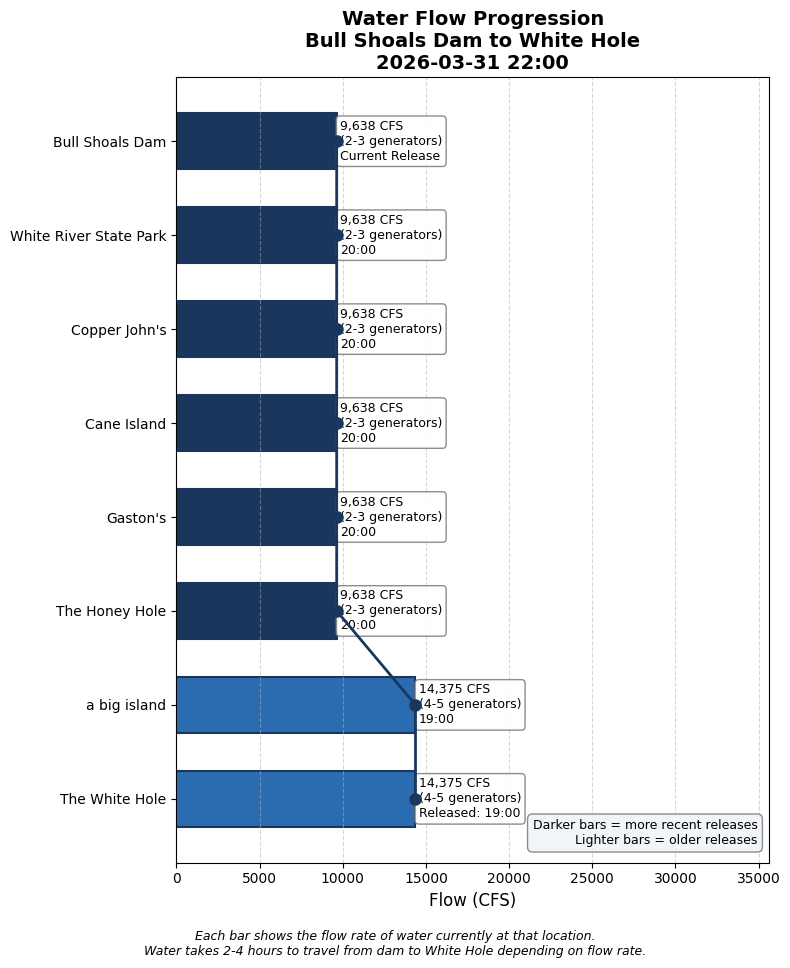
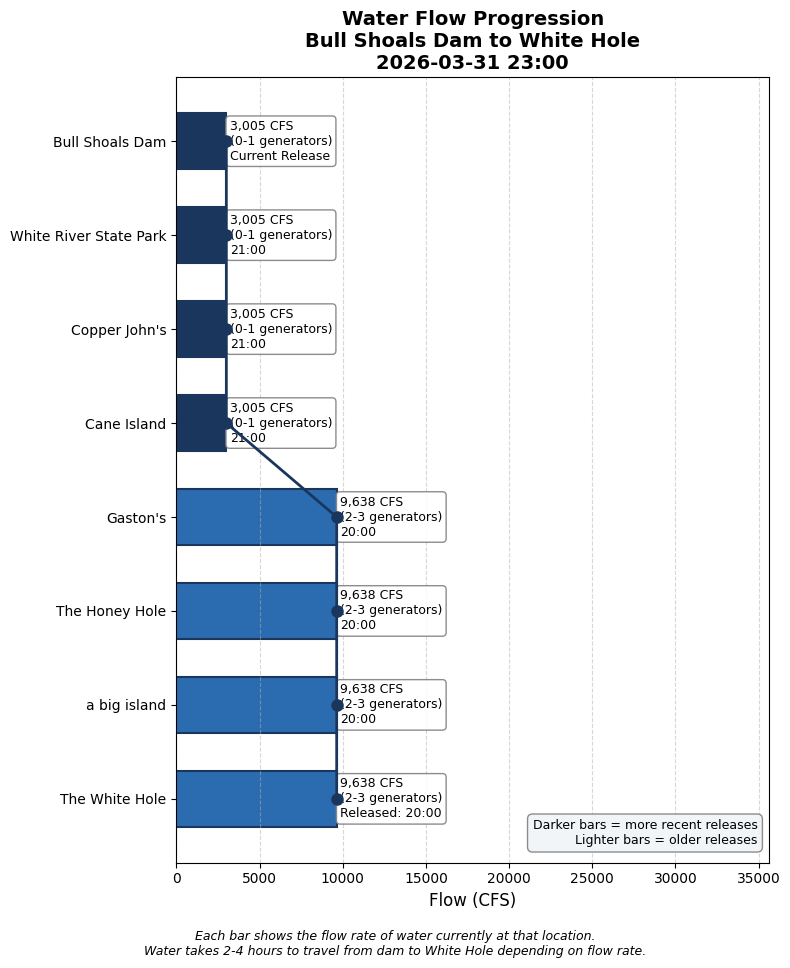
Update water conditions 2026-03-31 23:00

Changed region(s): [[0.2127, 0.093, 0.6684, 0.8678]]

diff --git a/white_hole_conditions.html b/white_hole_conditions.html
@@ -3,7 +3,7 @@
 <head>
     <meta charset="UTF-8">
     <meta name="viewport" content="width=device-width, initial-scale=1.0">
-    <title>White Hole Conditions - 2026-03-31 22:00</title>
+    <title>White Hole Conditions - 2026-03-31 23:00</title>
     <style>
         body {
             font-family: -apple-system, BlinkMacSystemFont, 'Segoe UI', Roboto, sans-serif;
@@ -77,8 +77,8 @@
             color: #991b1b;
         }
         .pill.boating {
-            background-color: #fee2e2;
-            color: #991b1b;
+            background-color: #dbeafe;
+            color: #1e40af;
         }
         .timeline-box {
             background-color: white;
@@ -148,7 +148,7 @@
 </head>
 <body>
     <h1>White Hole Current Conditions</h1>
-    <p class="subtitle">Tuesday, March 31, 2026 at 10:00 PM</p>
+    <p class="subtitle">Tuesday, March 31, 2026 at 11:00 PM</p>
 
     <!-- HEADLINE BANNER -->
     <div class="headline-banner">
@@ -159,11 +159,11 @@
     <!-- CURRENT CONDITIONS -->
     <div class="current-conditions">
         <h3>Current Conditions at White Hole</h3>
-        <div class="flow-display">14,375 CFS</div>
-        <div class="generator-display">Equivalent to 4-5 generators</div>
+        <div class="flow-display">9,638 CFS</div>
+        <div class="generator-display">Equivalent to 2-3 generators</div>
         <div class="condition-pills">
             <span class="pill wading">No Wading</span>
-            <span class="pill boating">High Water</span>
+            <span class="pill boating">Ideal Boating</span>
         </div>
         <a href="https://www.youtube.com/channel/UCAXhb9nFnsfu367AthDrgIA/live" target="_blank" class="webcam-link" style="margin-top: 15px;">
             📹 View Live Webcam
@@ -186,20 +186,20 @@
                 <tbody>
                     
                 <tr style="background-color: #ebf8ff;">
-                    <td style="padding: 10px; font-weight: bold;">20:00</td>
-                    <td style="padding: 10px;">9,638 CFS<br><small style="color: #666;">(2-3 generators)</small></td>
-                    <td style="padding: 10px;"><span style="color: #2b6cb0;">→ Arrives ~22:41 (in 41 min)</span></td>
+                    <td style="padding: 10px; font-weight: bold;">21:00</td>
+                    <td style="padding: 10px;">3,005 CFS<br><small style="color: #666;">(0-1 generators)</small></td>
+                    <td style="padding: 10px;"><span style="color: #2b6cb0;">→ Arrives ~00:44 (in 103 min)</span></td>
                 </tr>
             
                 <tr style="background-color: #e6fffa;">
-                    <td style="padding: 10px; font-weight: bold;">19:00</td>
-                    <td style="padding: 10px;">14,375 CFS<br><small style="color: #666;">(4-5 generators)</small></td>
+                    <td style="padding: 10px; font-weight: bold;">20:00</td>
+                    <td style="padding: 10px;">9,638 CFS<br><small style="color: #666;">(2-3 generators)</small></td>
                     <td style="padding: 10px;"><span style="color: #319795; font-weight: bold;">← AT WHITE HOLE NOW</span></td>
                 </tr>
             
                 <tr style="">
-                    <td style="padding: 10px; font-weight: bold;">15:00</td>
-                    <td style="padding: 10px;">5,295 CFS<br><small style="color: #666;">(1-2 generators)</small></td>
+                    <td style="padding: 10px; font-weight: bold;">16:00</td>
+                    <td style="padding: 10px;">8,484 CFS<br><small style="color: #666;">(2-3 generators)</small></td>
                     <td style="padding: 10px;"><span style="color: #718096;">passed</span></td>
                 </tr>
             
@@ -224,9 +224,9 @@
         </summary>
         <div style="padding: 15px;">
             <ul>
-                <li>Latest dam reading: 9,638 CFS at 2026-03-31 20:00</li>
-                <li>Travel time to White Hole: 2.4 hours at current flow</li>
-                <li>White Hole conditions based on dam reading from: 2026-03-31 19:00</li>
+                <li>Latest dam reading: 3,005 CFS at 2026-03-31 21:00</li>
+                <li>Travel time to White Hole: 2.7 hours at current flow</li>
+                <li>White Hole conditions based on dam reading from: 2026-03-31 20:00</li>
             </ul>
         </div>
     </details>
@@ -248,6 +248,13 @@
                     </thead>
                     <tbody>
                         
+                <tr style="border-bottom: 1px solid #eee;">
+                    <td style="padding: 8px;">2026-03-31 21:00</td>
+                    <td style="padding: 8px; text-align: right;">3005</td>
+                    <td style="padding: 8px; text-align: right;">0.9</td>
+                    <td style="padding: 8px; text-align: right;">3.7</td>
+                </tr>
+                
                 <tr style="border-bottom: 1px solid #eee;">
                     <td style="padding: 8px;">2026-03-31 20:00</td>
                     <td style="padding: 8px; text-align: right;">9638</td>
@@ -311,13 +318,6 @@
                     <td style="padding: 8px; text-align: right;">3.7</td>
                 </tr>
                 
-                <tr style="border-bottom: 1px solid #eee;">
-                    <td style="padding: 8px;">2026-03-31 11:00</td>
-                    <td style="padding: 8px; text-align: right;">2147</td>
-                    <td style="padding: 8px; text-align: right;">0.7</td>
-                    <td style="padding: 8px; text-align: right;">3.7</td>
-                </tr>
-                
                     </tbody>
                 </table>
             </div>
@@ -325,7 +325,7 @@
         
 
     <div class="timestamp">
-        Data retrieved and processed on 2026-03-31 22:00:08
+        Data retrieved and processed on 2026-03-31 23:00:07
     </div>
 </body>
 </html>
